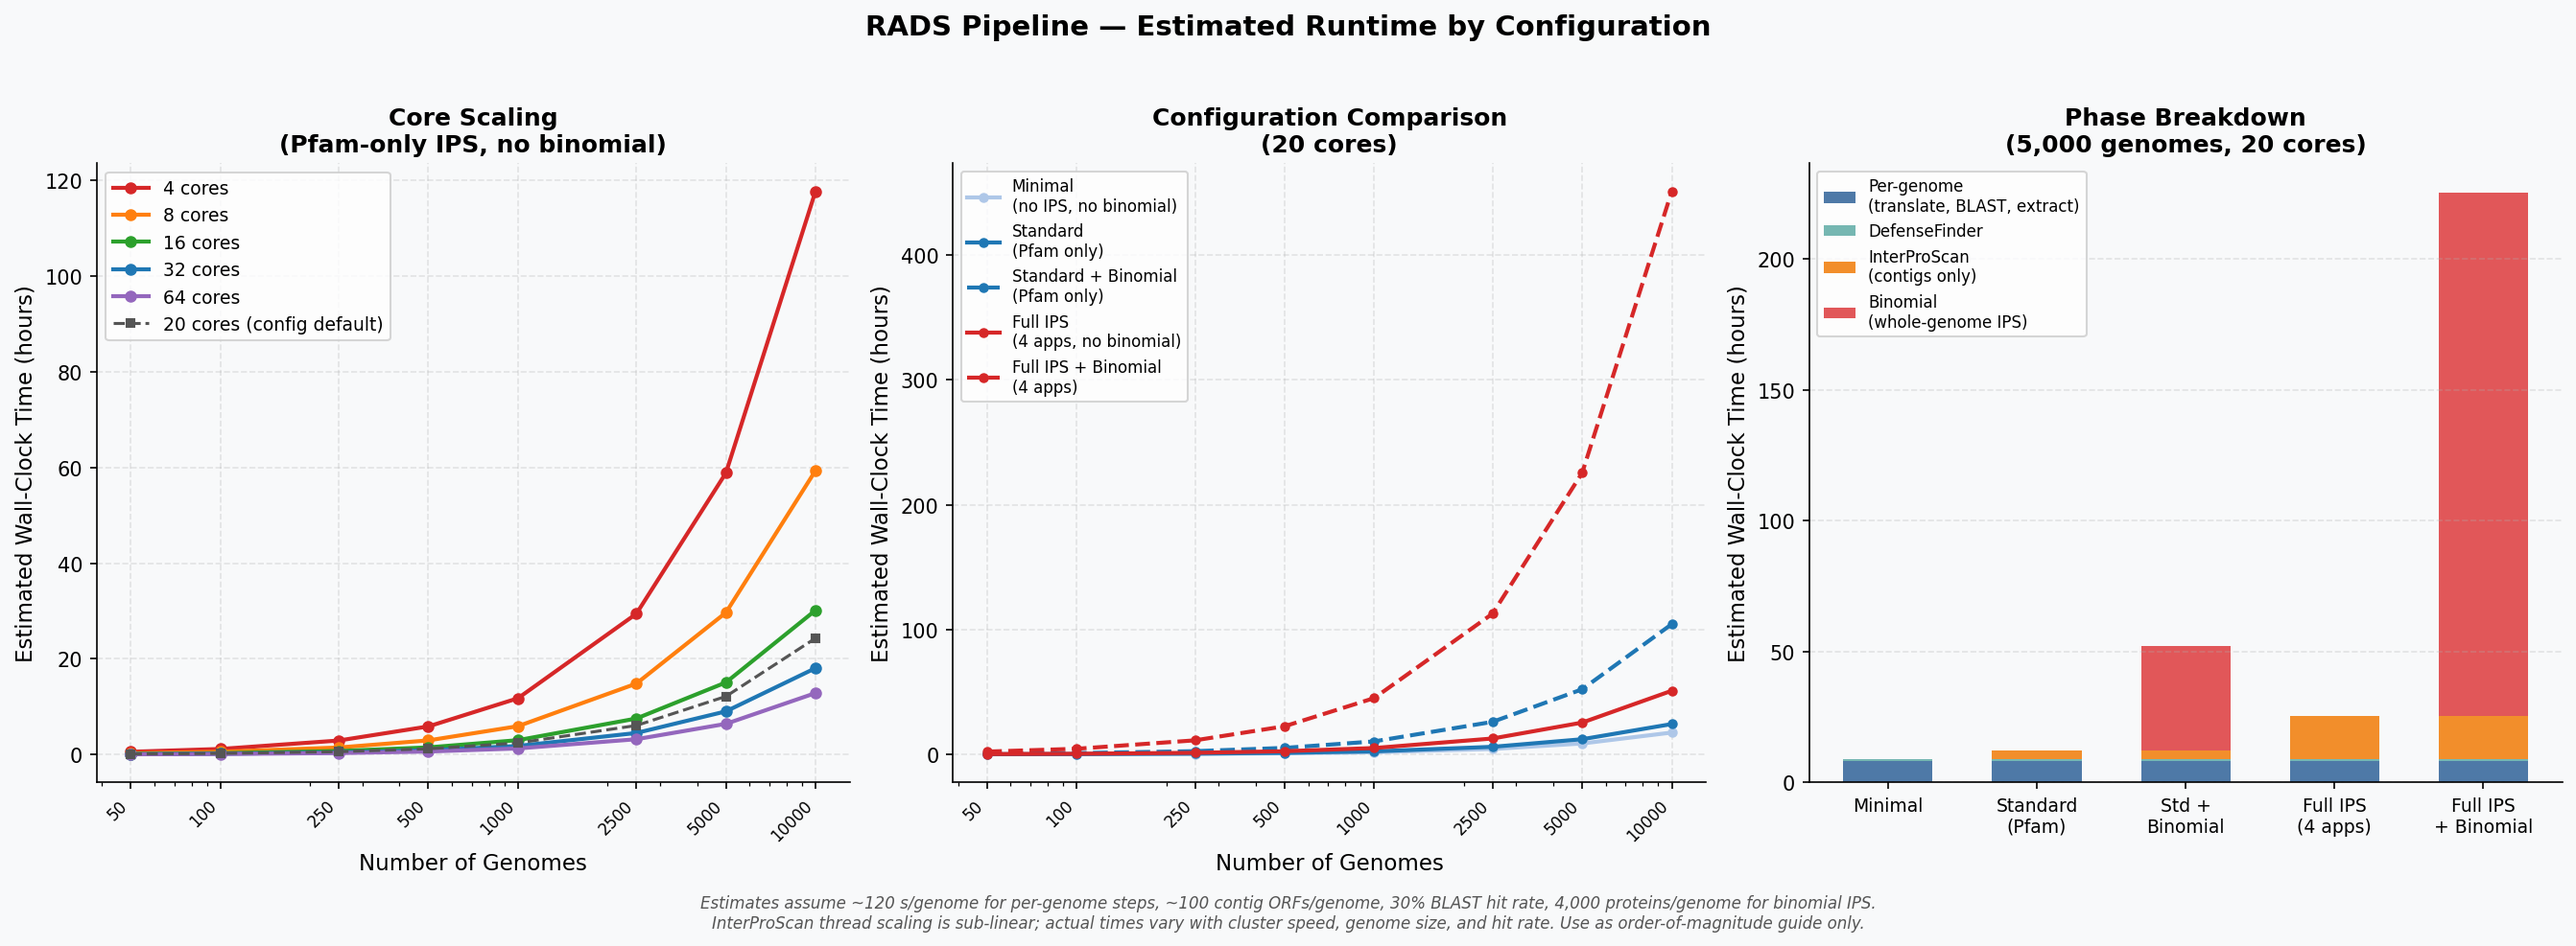
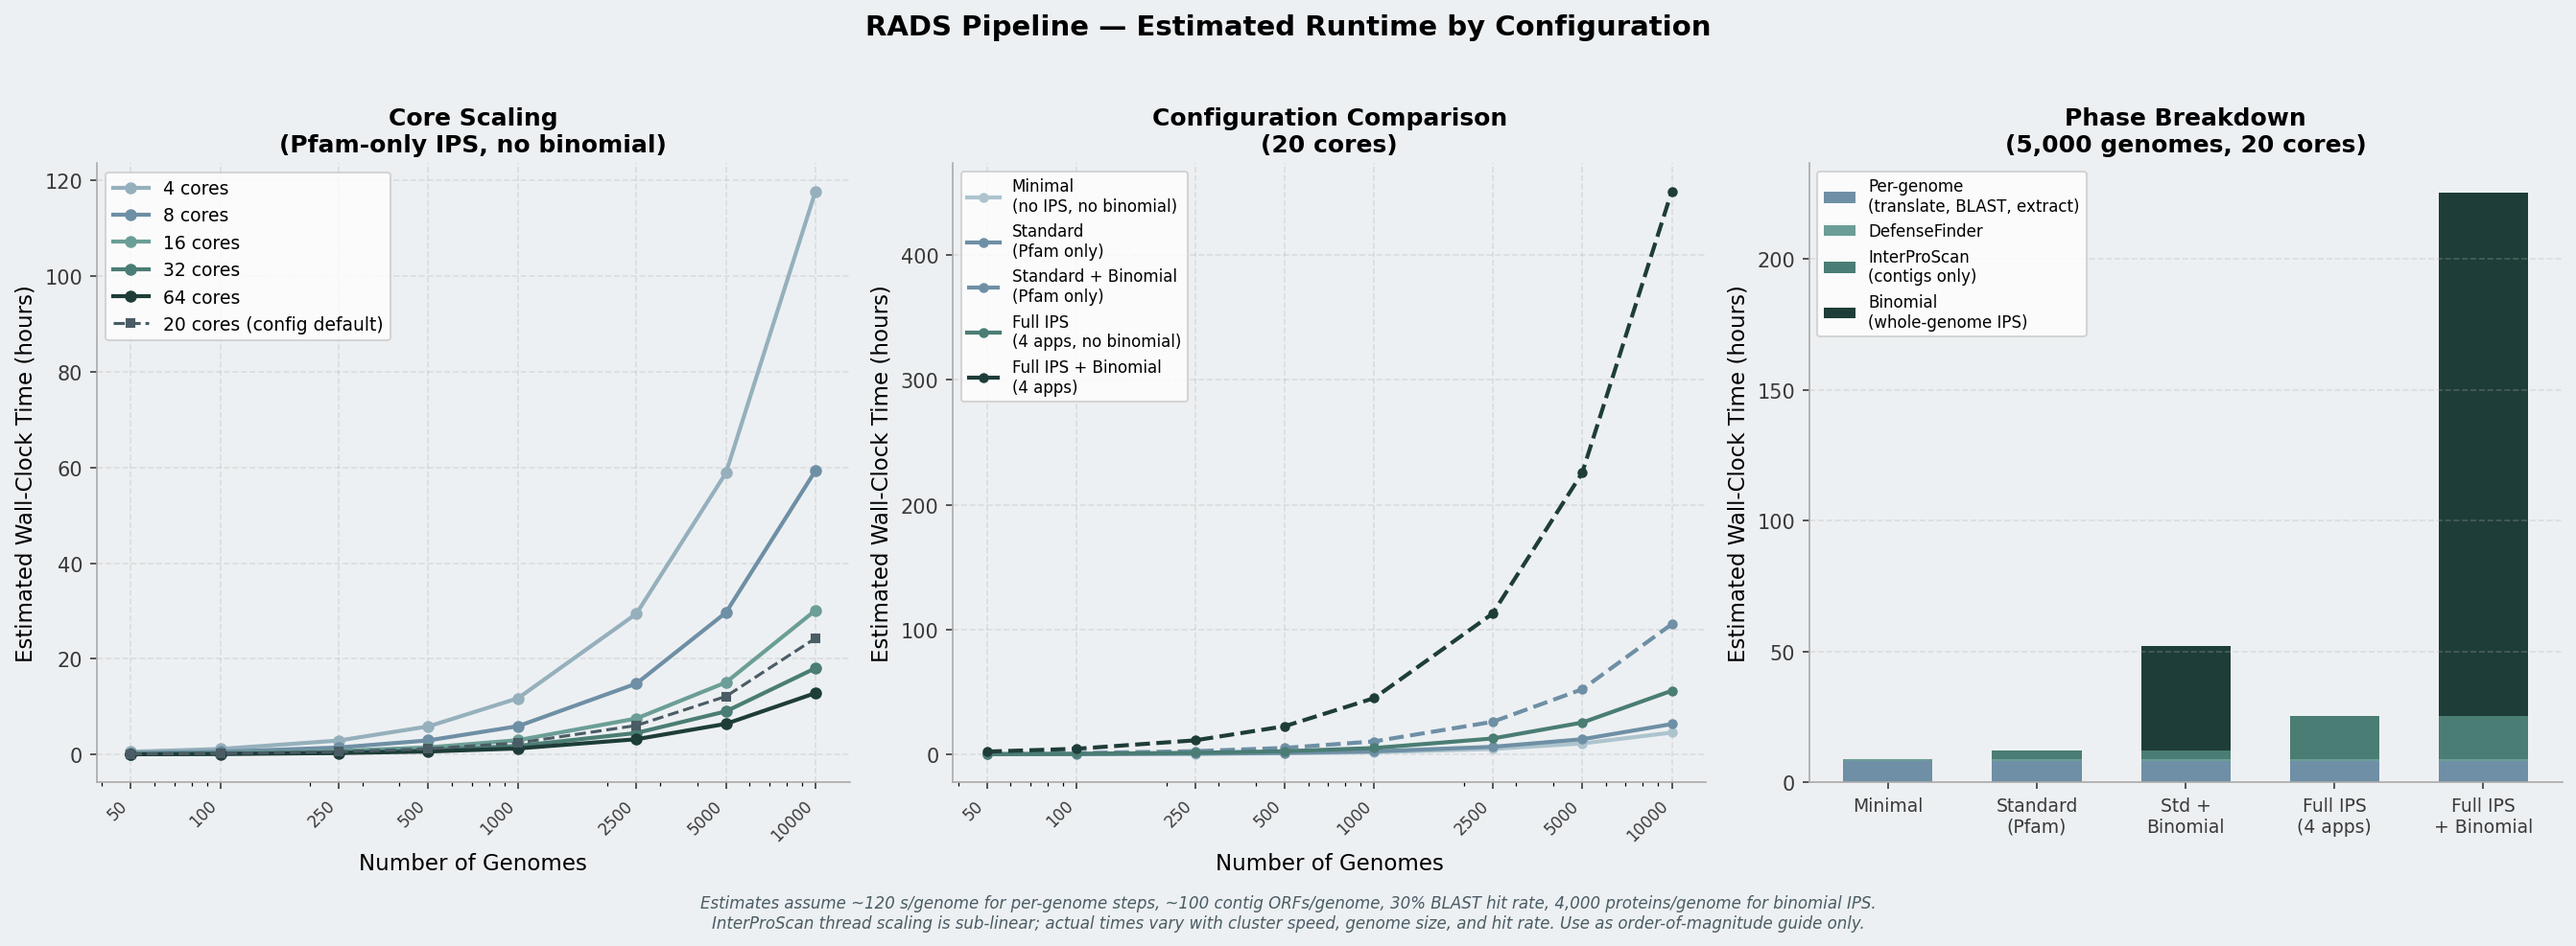
Add performance estimate figure to documentation
Includes a three-panel figure (core scaling, config comparison, phase
breakdown) using the project color palette. Embedded in Advanced-Usage.md
under Performance Tuning with key takeaways; cross-referenced from the
Parallelization section of Pipeline-Overview.md.

diff --git a/docs/generate_performance_estimate.py b/docs/generate_performance_estimate.py
@@ -99,14 +99,37 @@ def phase_breakdown(n_genomes, cores, ips_4apps=False, binomial=False):
 # ---------------------------------------------------------------------------
 genome_range = np.array([50, 100, 250, 500, 1000, 2500, 5000, 10000])
 core_counts  = [4, 8, 16, 32, 64]
-core_colors  = ["#d62728", "#ff7f0e", "#2ca02c", "#1f77b4", "#9467bd"]
+
+# Palette derived from the RADS reference figure:
+#   #1e3d38  very dark teal  (TIR)
+#   #2d5a52  dark teal
+#   #4a7d74  medium teal     (CBASS)
+#   #6b9e96  medium-light teal (cGAS / PyCSAR)
+#   #6e8fa5  muted blue-grey (STING / Class III Cyclase)
+#   #95b0bc  light muted blue
+#   #4a5c65  dark slate      (virus particles)
+#   #edf0f2  very light grey (background)
+BG       = "#edf0f2"
+DARK1    = "#1e3d38"
+DARK2    = "#2d5a52"
+MID_TEAL = "#4a7d74"
+LT_TEAL  = "#6b9e96"
+BLUE_GRY = "#6e8fa5"
+LT_BLUE  = "#95b0bc"
+SLATE    = "#4a5c65"
+PALE     = "#adc4ce"
+
+core_colors = [LT_BLUE, BLUE_GRY, LT_TEAL, MID_TEAL, DARK1]
 
 fig, axes = plt.subplots(1, 3, figsize=(18, 6))
-fig.patch.set_facecolor("#f8f9fa")
+fig.patch.set_facecolor(BG)
 for ax in axes:
-    ax.set_facecolor("#f8f9fa")
+    ax.set_facecolor(BG)
     ax.spines["top"].set_visible(False)
     ax.spines["right"].set_visible(False)
+    ax.spines["left"].set_color("#aaaaaa")
+    ax.spines["bottom"].set_color("#aaaaaa")
+    ax.tick_params(colors="#3a3a3a")
 
 # ---------------------------------------------------------------------------
 # Panel 1 — Scaling with core count (Standard: Pfam only, no binomial)
@@ -123,7 +146,7 @@ for cores, color in zip(core_counts, core_colors):
 # Shade the 20-core reference used in the paper
 times_20 = [estimate_hours(g, 20, ips_4apps=False, binomial=False)
             for g in genome_range]
-ax1.plot(genome_range, times_20, "s--", color="#555555", linewidth=1.5,
+ax1.plot(genome_range, times_20, "s--", color=SLATE, linewidth=1.5,
          markersize=4, label="20 cores (config default)", zorder=5)
 
 ax1.set_xscale("log")
@@ -141,11 +164,11 @@ ax2 = axes[1]
 ax2.set_title("Configuration Comparison\n(20 cores)", fontsize=12, fontweight="bold")
 
 configs = [
-    ("Minimal\n(no IPS, no binomial)",     False, False, "#aec7e8", "-"),
-    ("Standard\n(Pfam only)",              False, False, "#1f77b4", "-"),
-    ("Standard + Binomial\n(Pfam only)",   False, True,  "#1f77b4", "--"),
-    ("Full IPS\n(4 apps, no binomial)",    True,  False, "#d62728", "-"),
-    ("Full IPS + Binomial\n(4 apps)",      True,  True,  "#d62728", "--"),
+    ("Minimal\n(no IPS, no binomial)",     False, False, PALE,     "-"),
+    ("Standard\n(Pfam only)",              False, False, BLUE_GRY, "-"),
+    ("Standard + Binomial\n(Pfam only)",   False, True,  BLUE_GRY, "--"),
+    ("Full IPS\n(4 apps, no binomial)",    True,  False, MID_TEAL, "-"),
+    ("Full IPS + Binomial\n(4 apps)",      True,  True,  DARK1,    "--"),
 ]
 
 for label, ips4, binom, color, ls in configs:
@@ -183,10 +206,10 @@ bar_configs = [
 ]
 
 phase_colors = {
-    "Per-genome\n(translate, BLAST, extract)": "#4e79a7",
-    "DefenseFinder":                            "#76b7b2",
-    "InterProScan\n(contigs only)":             "#f28e2b",
-    "Binomial\n(whole-genome IPS)":             "#e15759",
+    "Per-genome\n(translate, BLAST, extract)": BLUE_GRY,
+    "DefenseFinder":                            LT_TEAL,
+    "InterProScan\n(contigs only)":             MID_TEAL,
+    "Binomial\n(whole-genome IPS)":             DARK1,
 }
 
 n_bars = len(bar_configs)
@@ -226,7 +249,7 @@ fig.text(
     "30% BLAST hit rate, 4,000 proteins/genome for binomial IPS.\n"
     "InterProScan thread scaling is sub-linear; actual times vary with cluster speed, "
     "genome size, and hit rate. Use as order-of-magnitude guide only.",
-    ha="center", fontsize=8, color="#555555", style="italic"
+    ha="center", fontsize=8, color=SLATE, style="italic"
 )
 
 fig.suptitle("RADS Pipeline — Estimated Runtime by Configuration",

diff --git a/docs/Advanced-Usage.md b/docs/Advanced-Usage.md
@@ -296,6 +296,20 @@ pixi run snakemake --report report.html
 
 ## Performance Tuning
 
+### Runtime Estimates
+
+The figure below shows estimated wall-clock times as a function of genome count, core count, and pipeline configuration. Estimates assume ~120 s/genome for per-genome steps (translate, BLAST, extract), ~100 contig ORFs/genome, a 30% BLAST hit rate, and ~4,000 proteins/genome for the binomial whole-genome InterProScan.
+
+![RADS Pipeline Performance Estimates](performance_estimate.png)
+
+Key takeaways:
+- **InterProScan dominates runtime** at scale — using Pfam-only (`applications: "Pfam"`) instead of multiple databases can reduce IPS time by 5–10×.
+- **Binomial analysis adds substantial cost** because it runs InterProScan on whole-genome proteomes of all genomes with BLAST hits. Provide a precomputed `whole_genome_interproscan` TSV to skip this step.
+- **Core scaling has diminishing returns** above ~16–32 cores because InterProScan and DefenseFinder are largely sequential.
+- **Limiting genomes** with `max_genomes` is the fastest way to reduce runtime for exploratory runs.
+
+The generation script is at `docs/generate_performance_estimate.py` and can be re-run to update the figure if timing assumptions change.
+
 ### Resource Allocation
 
 Add resources to rules:

diff --git a/docs/Pipeline-Overview.md b/docs/Pipeline-Overview.md
@@ -455,6 +455,8 @@ Use `--cores N` to control parallelism:
 pixi run snakemake --cores 16  # Use 16 cores
 ```
 
+For estimated runtimes by genome count, core count, and configuration, see the [[Advanced-Usage#runtime-estimates|Performance Tuning]] section of Advanced Usage.
+
 ## Next Steps
 
 - [[Dashboard-Guide]] - Explore results interactively
